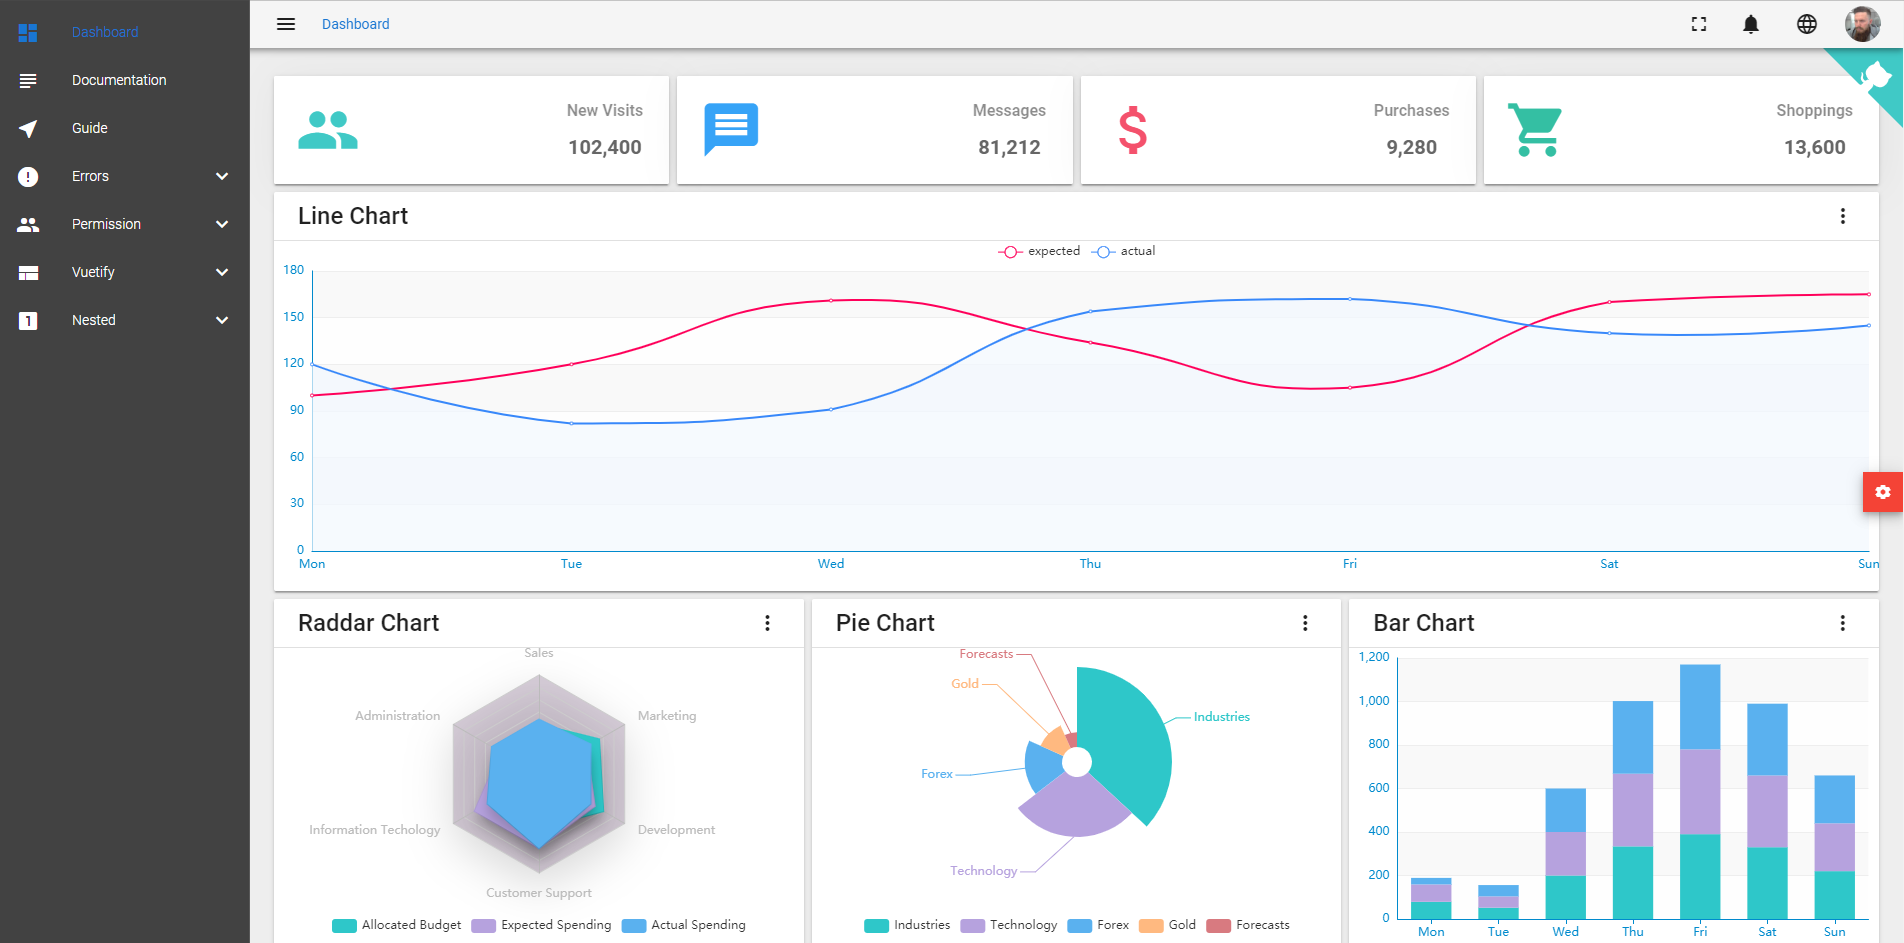
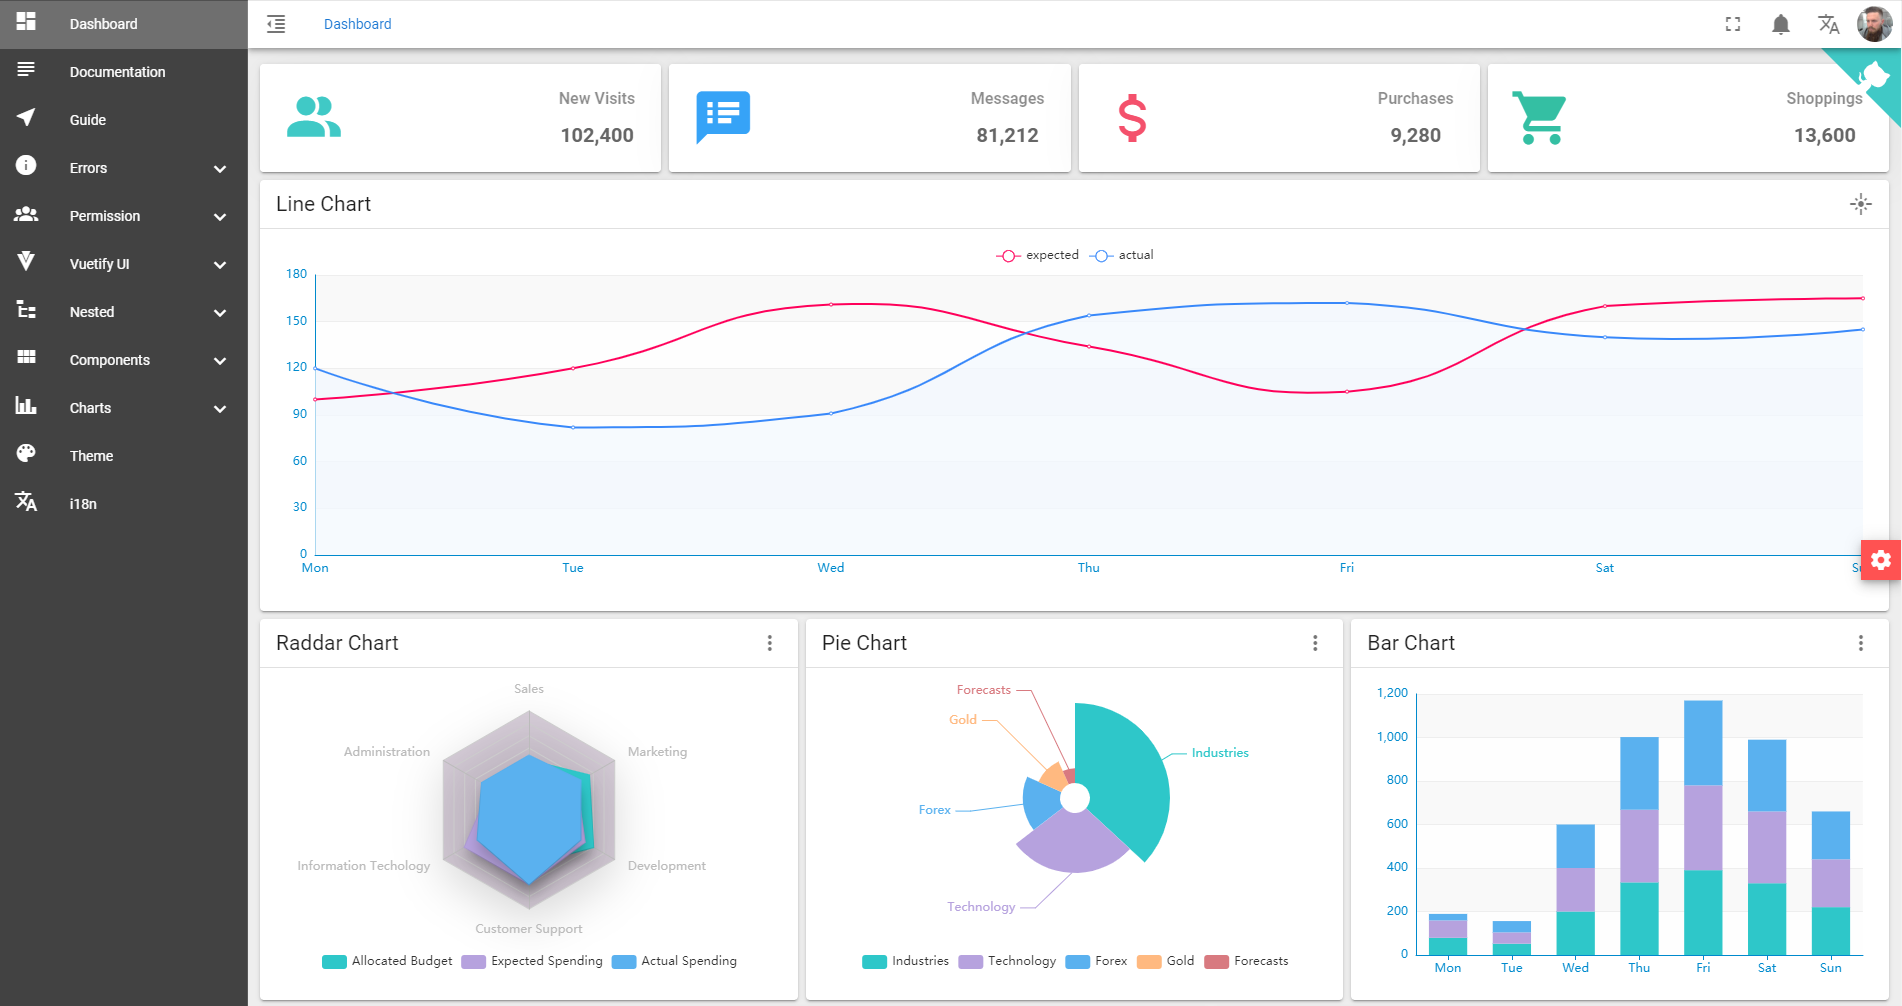
Migrate drawer list to Vuetify2 add drawer list dense

diff --git a/src/views/layout/components/AppDrawer/AppDrawerList.vue b/src/views/layout/components/AppDrawer/AppDrawerList.vue
@@ -1,45 +1,41 @@
 <template>
-  <v-list>
+  <v-list
+    :dense="dense"
+  >
     <div
       v-for="item in routes.filter(item => { return !item.hidden; })"
       :key="item.title"
     >
       <v-list-item
-        v-if="hasOneShowingChild(item.children, item) &&
-          (!onlyOneChild.children || onlyOneChild.noShowingChildren) && !item.alwaysShow"
-        class="reset_vuetify_icon_padding"
+        v-if="isVisibleItem(item)"
         :to="resolvePath(onlyOneChild.path)"
         ripple="ripple"
       >
-        <v-list-item-action
-          v-if="iconShow"
-        >
-          <v-icon>{{ onlyOneChild.meta ? onlyOneChild.meta.icon : null }}</v-icon>
-        </v-list-item-action>
+        <v-list-item-icon>
+          <v-icon>{{ getListIcon(onlyOneChild) }}</v-icon>
+        </v-list-item-icon>
 
         <v-list-item-content>
           <v-list-item-title>
-            {{ onlyOneChild.meta ? $t( onlyOneChild.meta.title ) : '' }}
+            {{ getListTitle(onlyOneChild) }}
           </v-list-item-title>
         </v-list-item-content>
       </v-list-item>
 
       <v-list-group
         v-else
-        :prepend-icon="iconShow && item.meta ? item.meta.icon : null"
-        no-action
+        :prepend-icon="getListIcon(item)"
       >
         <template v-slot:activator>
-          <v-list-item>
-            <v-list-item-content>
-              <v-list-item-title>
-                {{ item.meta ? $t( item.meta.title ) : '' }}
-              </v-list-item-title>
-            </v-list-item-content>
-          </v-list-item>
+          <v-list-item-content>
+            <v-list-item-title>
+              {{ getListTitle(item) }}
+            </v-list-item-title>
+          </v-list-item-content>
         </template>
 
         <app-drawer-list
+          :dense="dense"
           :routes="item.children"
           :base-path="resolvePath(item.path)"
         />
@@ -56,6 +52,10 @@ const path = require('path');
 export default {
   name: 'AppDrawerList',
   props: {
+    dense: {
+      type: Boolean,
+      default: false,
+    },
     routes: {
       type: Array,
       default: () => {},
@@ -78,16 +78,21 @@ export default {
     return {};
   },
   methods: {
-    hasOneShowingChild(children = [], parent) {
-      const showingChildren = children.filter((item) => {
+    isVisibleItem(item) {
+      return this.hasOneVisibleChild(item.children, item)
+        && (!this.onlyOneChild.children || this.onlyOneChild.noVisibleChildren)
+        && !item.alwaysShow;
+    },
+    hasOneVisibleChild(children = [], parent) {
+      const visibleChildren = children.filter((item) => {
         if (item.hidden) return false;
-        // Temp set(will be used if only has one showing child)
+        // Temp set(will be used if only has one visible child)
         this.onlyOneChild = item;
         return true;
       });
 
       // When there is only one child router, the child router is displayed by default
-      if (showingChildren.length === 1) {
+      if (visibleChildren.length === 1) {
         this.onlyOneChild.path = path.resolve(parent.path, this.onlyOneChild.path);
         this.onlyOneChild.meta.icon = this.onlyOneChild.meta.icon || parent.meta.icon || '';
 
@@ -95,8 +100,8 @@ export default {
       }
 
       // Show parent if there are no child router to display
-      if (showingChildren.length === 0) {
-        this.onlyOneChild = { ...parent, noShowingChildren: true };
+      if (visibleChildren.length === 0) {
+        this.onlyOneChild = { ...parent, noVisibleChildren: true };
         return true;
       }
 
@@ -107,8 +112,14 @@ export default {
         return routePath;
       }
       const full = path.resolve(this.basePath, routePath);
-      console.log(`${this.basePath} | ${routePath} | ${full}`);
+      // console.log(`${this.basePath} | ${routePath} | ${full}`);
       return full; // path.resolve(this.basePath, routePath);
+    },
+    getListIcon(item) {
+      return this.iconShow && item.meta ? item.meta.icon : ' ';
+    },
+    getListTitle(item) {
+      return item.meta ? this.$t(item.meta.title) : '';
     },
   },
 };
@@ -116,4 +127,12 @@ export default {
 </script>
 
 <style >
+  .v-list {
+    padding-bottom: 0px;
+    padding-top: 0px;
+  }
+  .v-list-item__icon {
+    margin-bottom: 8px;
+    margin-top: 8px;
+  }
 </style>

diff --git a/src/views/layout/components/AppFab.vue b/src/views/layout/components/AppFab.vue
@@ -59,6 +59,7 @@
 
       <v-container container--fluid>
         <v-switch
+          dense
           color="secondary"
           :input-value="toolbarDense"
           :label="`${$t('settings.toolbarDense')}: ${toolbarDense ? 'on' : 'off'}`"
@@ -66,6 +67,15 @@
           @change="toggleToolbarDense"
         />
         <v-switch
+          dense
+          color="secondary"
+          :input-value="navbarDense"
+          :label="`${$t('settings.navbarDense')}: ${navbarDense ? 'on' : 'off'}`"
+          hide-details
+          @change="toggleNavbarDense"
+        />
+        <v-switch
+          dense
           color="secondary"
           :input-value="navbarLogo"
           :label="`${$t('settings.navbarLogo')}: ${navbarLogo ? 'on' : 'off'}`"
@@ -73,6 +83,7 @@
           @change="toggleNavbarLogo"
         />
         <v-switch
+          dense
           color="secondary"
           :input-value="settingsPanelBtn"
           :label="`${$t('settings.settingsBtn')}: ${settingsPanelBtn ? 'on' : 'off'}`"
@@ -108,6 +119,7 @@ export default {
       'settingsPanelBtn',
       'settingsPanelShow',
       'toolbarDense',
+      'navbarDense',
       'navbarLogo',
     ]),
   },
@@ -121,6 +133,9 @@ export default {
     },
     toggleToolbarDense() {
       this.$store.dispatch('ToolbarDenseToggle');
+    },
+    toggleNavbarDense() {
+      this.$store.dispatch('NavbarDenseToggle');
     },
     toggleNavbarLogo() {
       this.$store.dispatch('NavbarLogoToggle');

diff --git a/src/store/modules/settings.js b/src/store/modules/settings.js
@@ -2,6 +2,7 @@ const settingsDefault = {
   language: 'ru',
   dense: true,
   navbar: {
+    dense: false,
     show: true,
     logo: false,
   },
@@ -24,6 +25,7 @@ const settings = {
   getters: {
     language: (state) => state.language,
     toolbarDense: (state) => state.dense,
+    navbarDense: (state) => state.navbar.dense,
     navbarShow: (state) => state.navbar.show,
     navbarLogo: (state) => state.navbar.logo,
     fullscreenBtn: (state) => state.fullscreen.btn,
@@ -59,6 +61,9 @@ const settings = {
     TOOLBAR_DENSE_TOGGLE: (state) => {
       state.dense = !state.dense;
     },
+    NAVBAR_DENSE_TOGGLE: (state) => {
+      state.navbar.dense = !state.navbar.dense;
+    },
     NAVBAR_LOGO_TOGGLE: (state) => {
       state.navbar.logo = !state.navbar.logo;
     },
@@ -93,6 +98,9 @@ const settings = {
     },
     ToolbarDenseToggle: async (context) => {
       context.commit('TOOLBAR_DENSE_TOGGLE');
+    },
+    NavbarDenseToggle: async (context) => {
+      context.commit('NAVBAR_DENSE_TOGGLE');
     },
     NavbarLogoToggle: async (context, payload) => {
       context.commit('NAVBAR_LOGO_TOGGLE', payload);

diff --git a/src/main.js b/src/main.js
@@ -1,10 +1,12 @@
 import 'normalize.css/normalize.css';
-import '@/styles/index.scss'; // global css
+// import '@/styles/variables.scss'; // global variables
+// import '@/styles/index.scss'; // global css
 import 'vuetify/dist/vuetify.min.css';
 
 /* icons */
-import 'material-design-icons-iconfont/dist/material-design-icons.css';
-import 'font-awesome/css/font-awesome.css';
+// import '@mdi/font/css/materialdesignicons.css';
+// import 'material-design-icons-iconfont/dist/material-design-icons.css';
+// import 'font-awesome/css/font-awesome.css';
 /* fonts */
 import 'roboto-fontface/css/roboto/roboto-fontface.css';
 

diff --git a/src/views/layout/components/AppDrawer/index.vue b/src/views/layout/components/AppDrawer/index.vue
@@ -28,6 +28,7 @@
     </v-app-bar>
     <v-divider />
     <app-drawer-list
+      :dense="navbarDense"
       :routes="permissionRoutes"
       :icon-show="true"
     />
@@ -47,6 +48,7 @@ export default {
   computed: {
     ...mapGetters([
       'permissionRoutes',
+      'navbarDense',
       'navbarShow',
       'navbarLogo',
       'toolbarDense',

diff --git a/src/locale/ru.js b/src/locale/ru.js
@@ -88,6 +88,7 @@ export default {
     position: 'Положение елементов',
     theme: 'Цветовая схема',
     toolbarDense: 'Toolbar dense',
+    navbarDense: 'Navbar dense',
     navbarLogo: 'Navbar logo',
     settingsBtn: 'Setting btn',
   },

diff --git a/src/locale/en.js b/src/locale/en.js
@@ -88,6 +88,7 @@ export default {
     position: 'Position of elements',
     theme: 'Theme',
     toolbarDense: 'Toolbar dense',
+    navbarDense: 'Navbar dense',
     navbarLogo: 'Navbar logo',
     settingsBtn: 'Setting btn',
   },

diff --git a/src/views/components/I18n.vue b/src/views/components/I18n.vue
@@ -26,9 +26,11 @@
 
       <v-flex
         flex-grow-1
+        md4
+        offset-md4
+        sm8
+        offset-sm2
         xs12
-        sm4
-        offset-sm4
       >
         <app-widget
           :title="$t('ui.switch')"

diff --git a/src/views/components/Theme.vue b/src/views/components/Theme.vue
@@ -26,9 +26,11 @@
 
       <v-flex
         flex-grow-1
+        md4
+        offset-md4
+        sm8
+        offset-sm2
         xs12
-        sm4
-        offset-sm4
       >
         <app-widget
           :title="$t('ui.theme')"

diff --git a/src/router/modules/vuetify.js b/src/router/modules/vuetify.js
@@ -9,7 +9,7 @@ const vuetifyRouter = {
   name: 'VuetifyDemo',
   meta: {
     title: 'route.vuetify',
-    icon: 'mdi-view-compact',
+    icon: 'mdi-vuetify',
   },
   children: [
     {

diff --git a/src/styles/variables.scss b/src/styles/variables.scss
@@ -1,0 +1,4 @@
+// Override Globals Variables
+$font-size-root: 14px;
+
+// @import '~vuetify/src/styles/main.sass';
